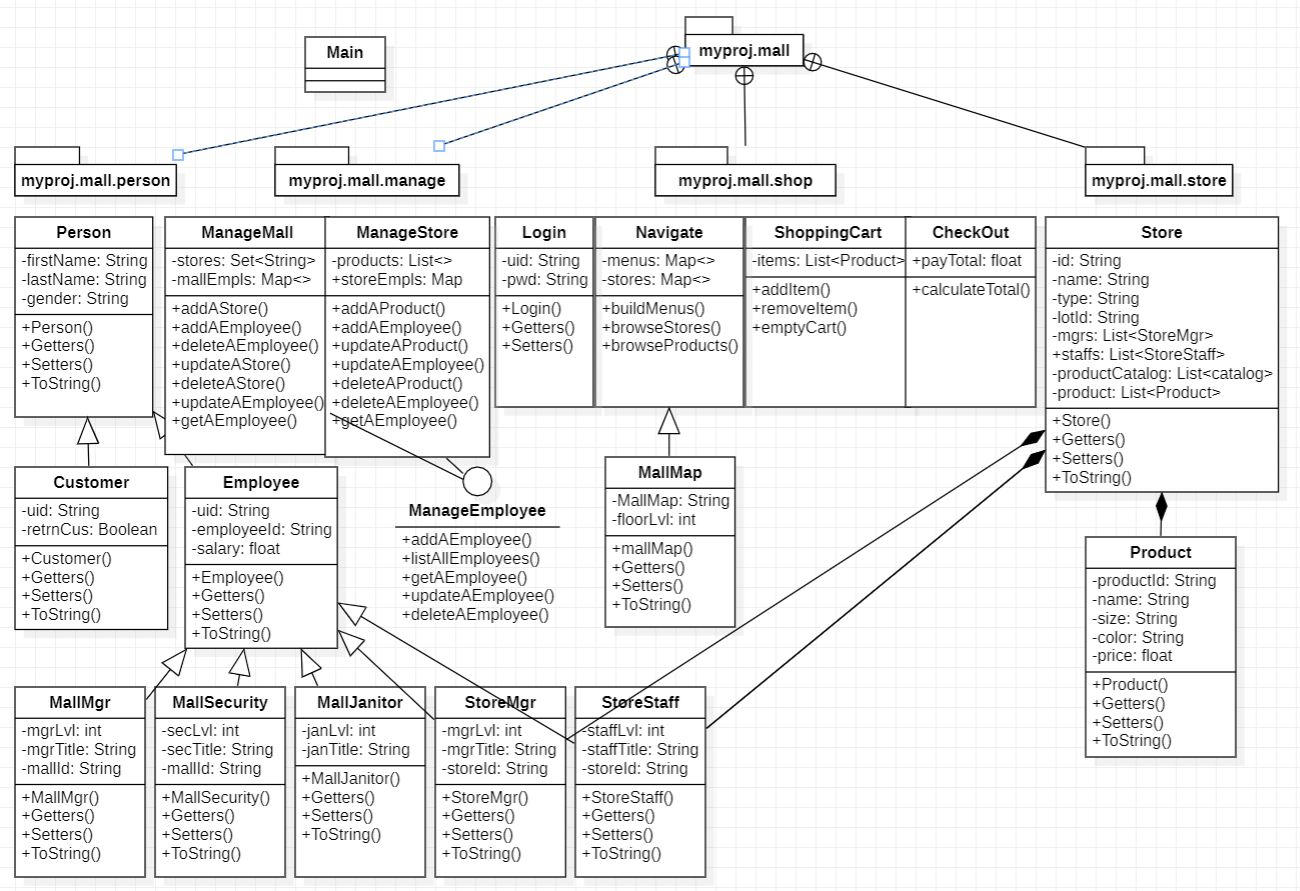
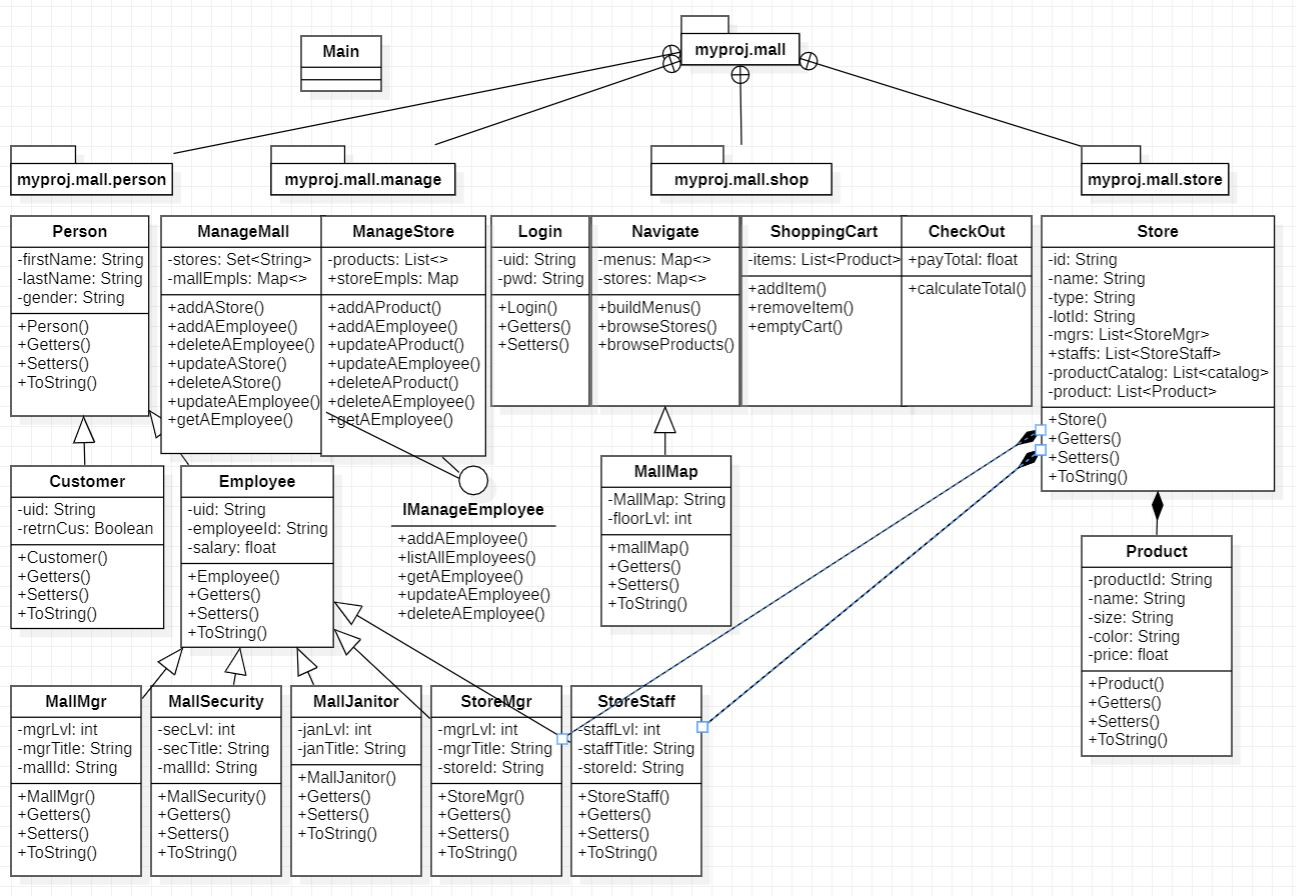
update interface name to start with 'I'

diff --git a/src/main/java/myproj/mall/manage/ManageStore.java b/src/main/java/myproj/mall/manage/ManageStore.java
@@ -14,7 +14,7 @@ import myproj.mall.store.Product;
 import myproj.mall.store.ProductCatalog;
 import myproj.mall.store.Store;
 
-public class ManageStore implements ManageEmployee {
+public class ManageStore implements IManageEmployee {
     // Fields
     private List<ProductCatalog> catalogs;
     private List<Product> products;

diff --git a/src/main/java/myproj/mall/manage/ManageMall.java b/src/main/java/myproj/mall/manage/ManageMall.java
@@ -15,7 +15,7 @@ import myproj.mall.person.MallMgr;
 import myproj.mall.person.MallSecurity;
 import myproj.mall.store.Store;
 
-public class ManageMall implements ManageEmployee {
+public class ManageMall implements IManageEmployee {
     // Fields
     private Set<Store> stores;
     private Map<String, Object> mallEmpls;

diff --git a/src/main/java/myproj/mall/manage/IManageEmployee.java b/src/main/java/myproj/mall/manage/IManageEmployee.java
@@ -1,6 +1,6 @@
 package myproj.mall.manage;
 
-public interface ManageEmployee {
+public interface IManageEmployee {
     void addAEmployee();
     void listAllEmployees();
     Object getAEmployee(String emplId);
